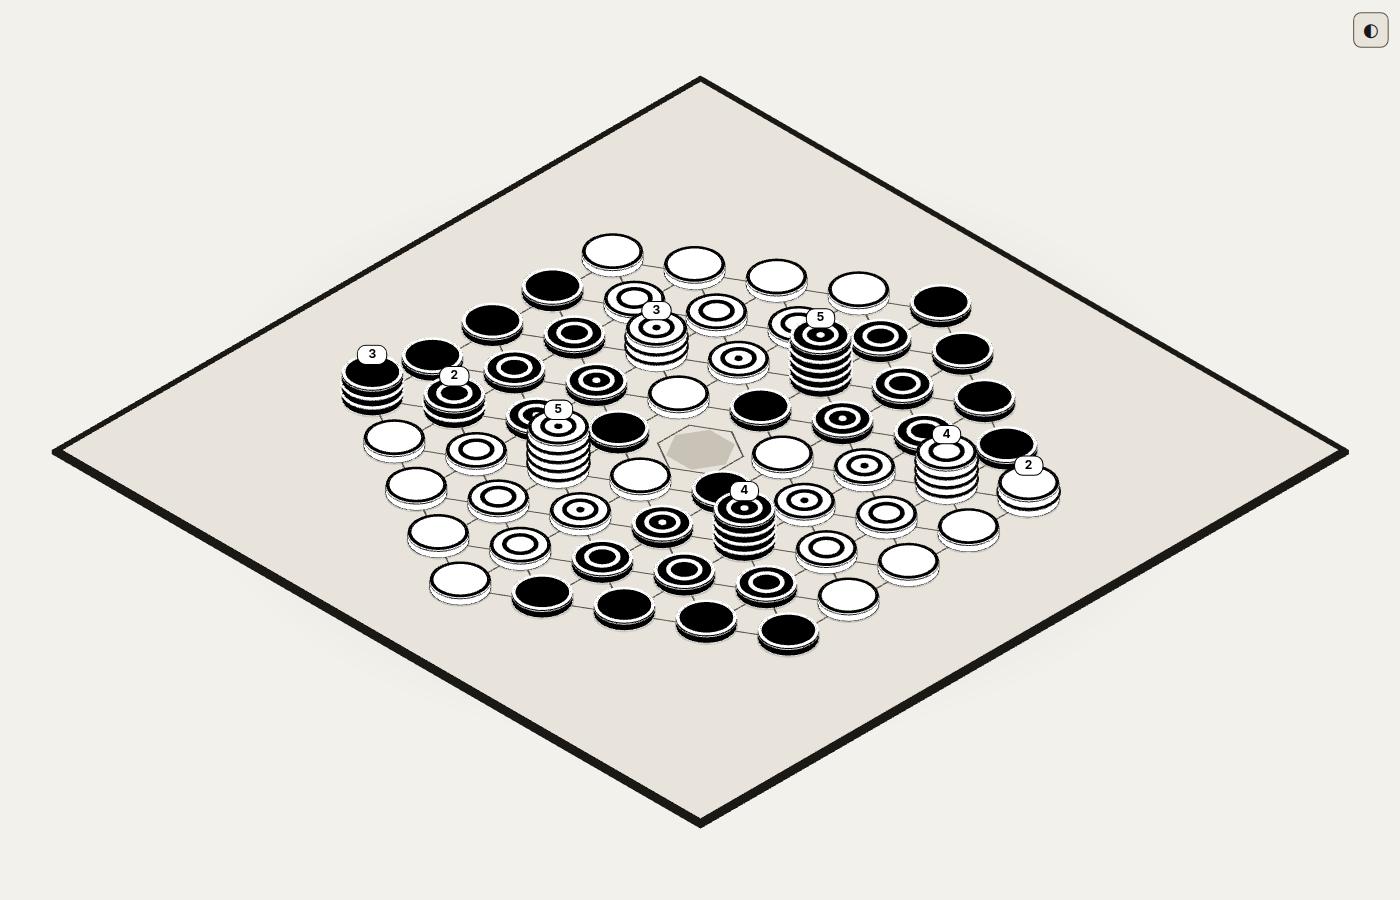
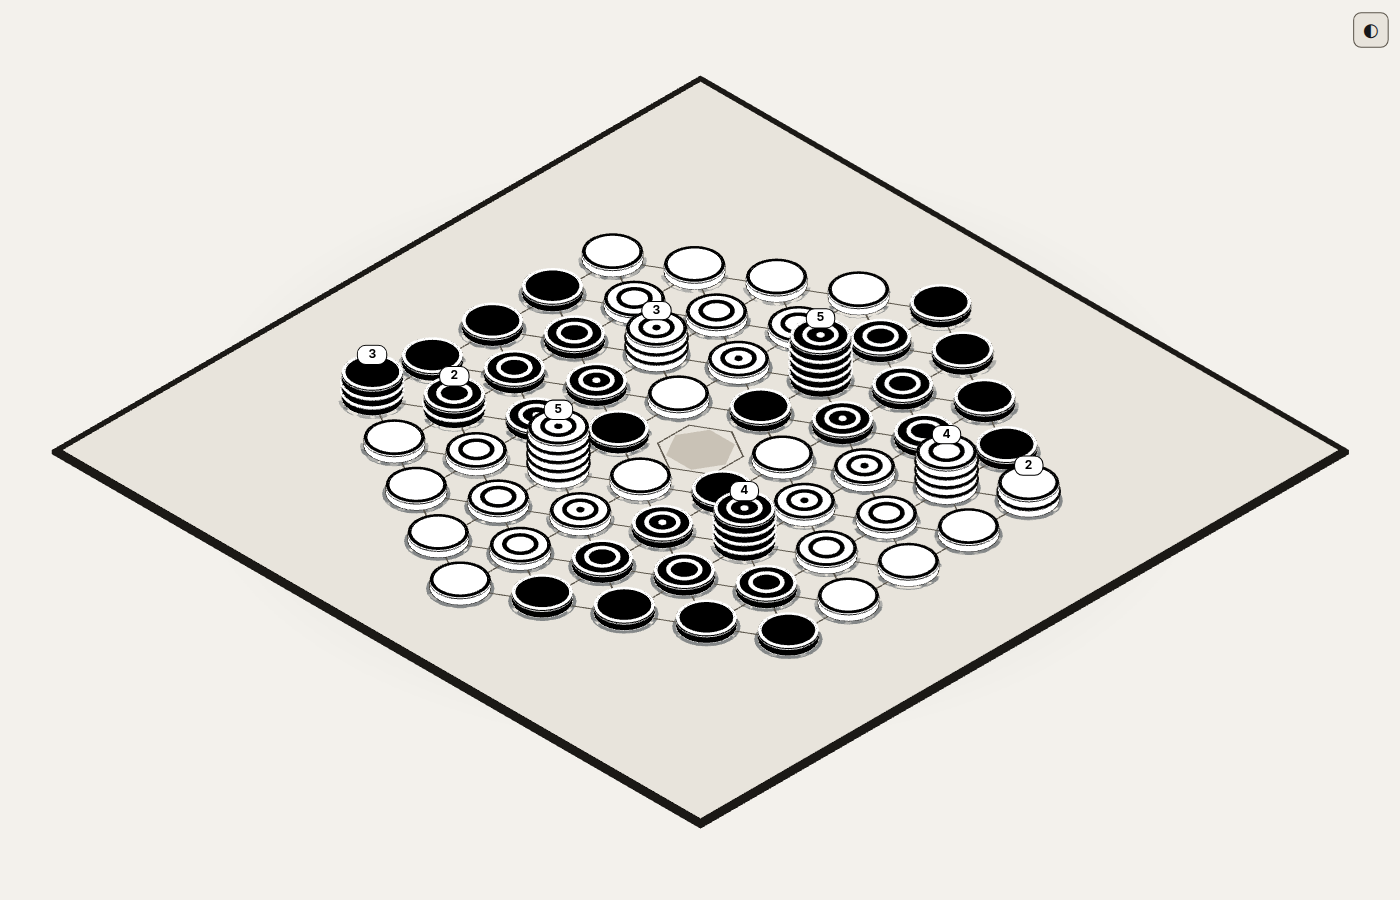
Make Tzaar contact shadows readable at the chip bases.
Grounding fix 9134ff3 is already merged; strengthen per-piece shadows
so they visibly touch flush chips in light and dark.

diff --git a/web-3d/demos/tzaar/src/main.ts b/web-3d/demos/tzaar/src/main.ts
@@ -161,7 +161,7 @@ function applyTheme(id: ThemeId) {
   const shadowMat = new THREE.MeshBasicMaterial({
     color: tokens.shadow,
     transparent: true,
-    opacity: 0.09,
+    opacity: 0.28,
     depthWrite: false,
     side: THREE.DoubleSide,
   });
@@ -185,7 +185,7 @@ function applyTheme(id: ThemeId) {
       y += GIPF_CHIP.HEIGHT;
     }
     const shadow = new THREE.Mesh(discGeo, shadowMat);
-    shadow.scale.set(BOARD.SHADOW_SCALE, 0.001, BOARD.SHADOW_SCALE);
+    shadow.scale.set(BOARD.CONTACT_BLOB_SOFT_SCALE, 0.001, BOARD.CONTACT_BLOB_SOFT_SCALE);
     shadow.position.set(pos.x, surface + BOARD.SHADOW_CONTACT_EPSILON, pos.z);
     shadow.renderOrder = 1;
     shadowsRoot.add(shadow);
